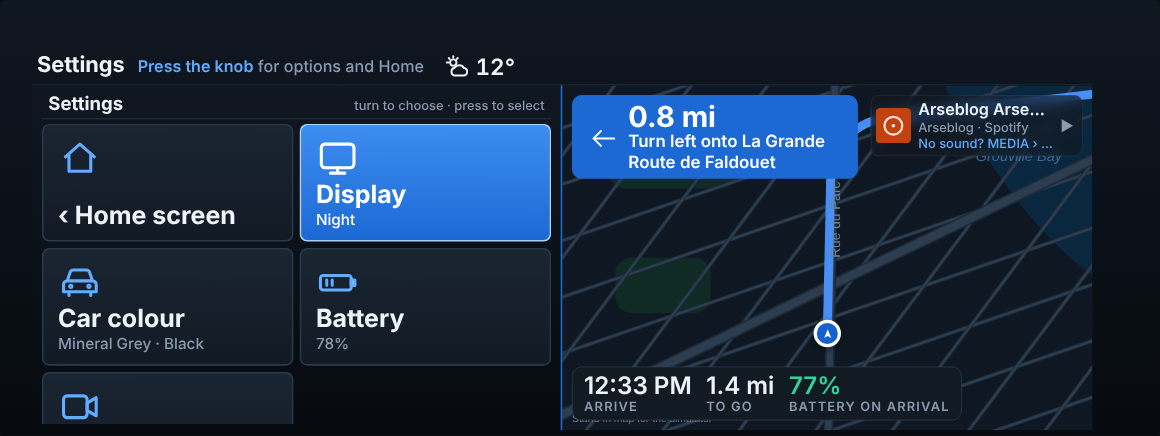
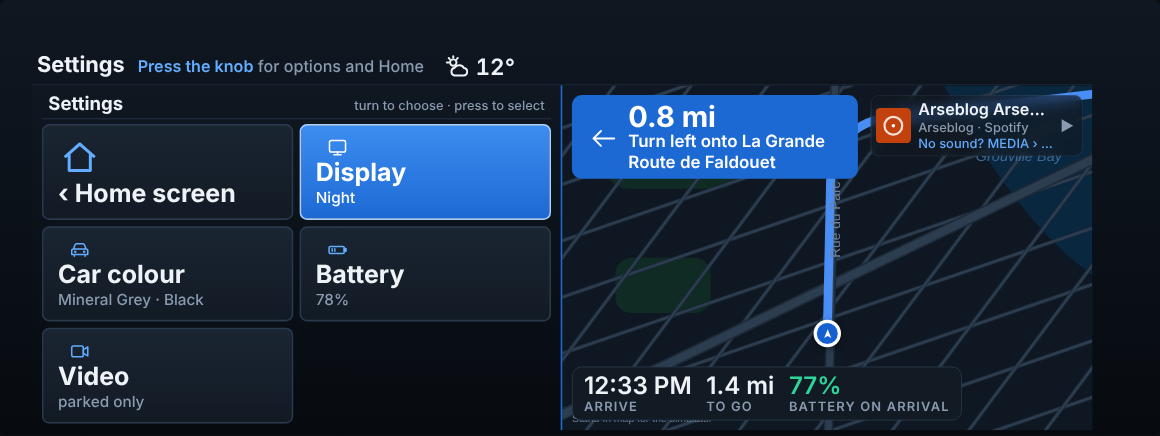
Settings tile opens its cards directly; compact cards so Resume stays on screen
Tapping Settings only switched to the car page and needed a second
press to show the cards. It now opens them straight away, like Music.

With 4+ music apps the Resume card ended up in a 4th row below the
visible area. Grids with more than 3 rows now use compact cards
(icon beside the title) so every card, including Resume in the
bottom-left, fits without scrolling.

Claude-Session: https://claude.ai/code/session_012qQKmKQnTSeY3dbxDfNLy6

Changed region(s): [[0.031, 0.2982, 0.4966, 0.9839], [0.0621, 0.3578, 0.0931, 0.3876]]

diff --git a/app/src/main/assets/i3dash/index.html b/app/src/main/assets/i3dash/index.html
@@ -131,6 +131,11 @@ aside{position:relative;padding:8px 10px;display:flex;flex-direction:column;gap:
 .mi.on{background:linear-gradient(180deg,var(--accent2),var(--accent));border-color:var(--edge);color:var(--accent-ink)}.mi.on small,.mi.on b{color:var(--accent-ink)}
 .mi.dim{color:var(--muted);font-size:20px}
 .cardbox{display:grid;grid-template-columns:repeat(2,1fr);grid-auto-rows:1fr;gap:8px;flex:1;min-height:0;overflow-y:auto;overflow-x:hidden}
+.cardbox.tight .card{flex-direction:row;align-items:center;justify-content:flex-start;gap:14px;padding:6px 14px;min-height:0}
+.cardbox.tight .card svg{width:36px;height:36px;flex:none}
+.cardbox.tight .card>div{min-width:0}
+.cardbox.tight .card .ct{font-size:24px;white-space:nowrap;overflow:hidden;text-overflow:ellipsis}
+.cardbox.tight .card .cx{font-size:16px;margin-top:1px}
 .card.dim{opacity:.55}
 .card.dim svg{stroke:var(--muted)}
 .toast{position:absolute;left:50%;bottom:64px;transform:translateX(-50%);z-index:10;font:600 22px var(--f-b);background:var(--panel);border:1px solid var(--accent);border-radius:12px;padding:8px 18px;white-space:nowrap}
@@ -564,7 +569,7 @@ function drawMenu(){
     // and ignores auto-added rows - verified with a Playwright test before shipping this.
     const rowN=Math.ceil(menu.items.length/2);
     const cards=menu.items.map((it,i)=>`<div class="card${i===menu.sel?' on':''}${it.dim?' dim':''}"${it.bl?` style="grid-column:1;grid-row:${rowN}"`:''}><svg viewBox="0 0 24 24">${ICON[it.icon]||ICON.Settings}</svg><div><div class="ct">${esc(it.label)}</div>${it.note?`<div class="cx">${esc(it.note)}</div>`:''}</div></div>`).join('');
-    H('#menu',`<div class="mt"><span>${esc(menu.title)}</span><small>turn to choose · press to select</small></div><div class="cardbox" style="grid-template-rows:repeat(${rowN},1fr)">${cards}</div>`);
+    H('#menu',`<div class="mt"><span>${esc(menu.title)}</span><small>turn to choose · press to select</small></div><div class="cardbox${rowN>3?' tight':''}" style="grid-template-rows:repeat(${rowN},minmax(0,1fr))">${cards}</div>`);
     const selCard=$('#menu .card.on');if(selCard)selCard.scrollIntoView({block:'nearest'});
     return;
   }
@@ -828,7 +833,7 @@ function drawHome(){
 }
 function openCard(k){
   home=false;page=PAGES.indexOf(k==='Navigate'?'Map':k==='Settings'?'Info':k);showPage();
-  if(D.call&&k==='Call')sectionMenu();else if(k==='Navigate')navMenu();else if(k==='Call')callMenu();else if(k==='Chargers'&&chargers.length)chargersMenu();else if(k==='Music')musicMenu();
+  if(D.call&&k==='Call')sectionMenu();else if(k==='Navigate')navMenu();else if(k==='Call')callMenu();else if(k==='Chargers'&&chargers.length)chargersMenu();else if(k==='Music')musicMenu();else if(k==='Settings')settingsMenu();
 }
 window.i3hidden=function(){closeMenu()};
 setWxIcon();
